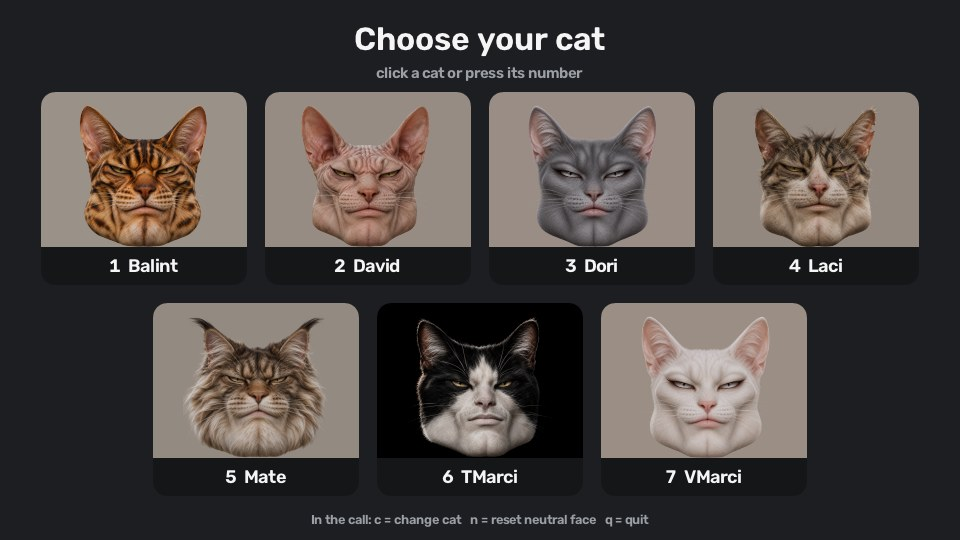
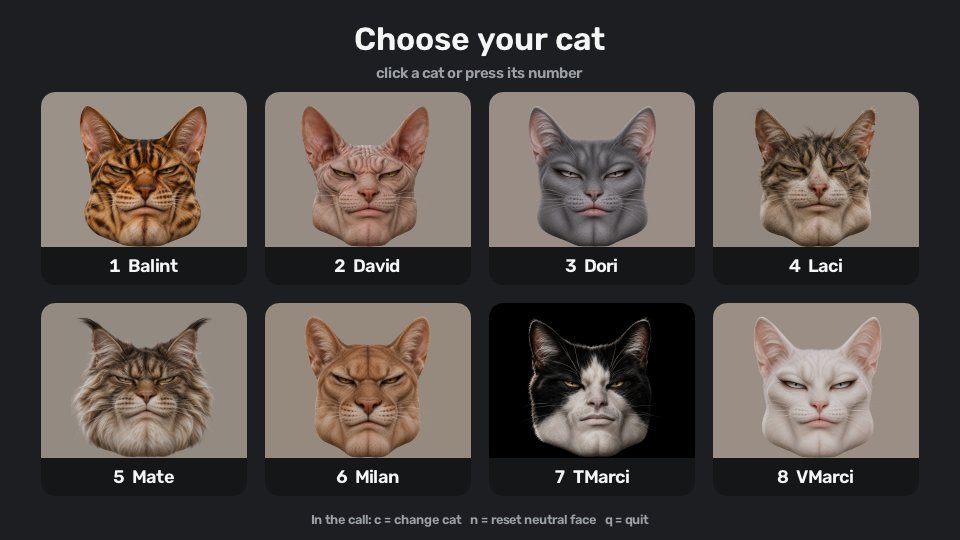
feat: add Milan, a ginger cat with his own paws
The blink test now measures against the eyes as snapped onto the photo:
Milan's landmarks squash his narrowed eyes into a slit, so his real lids
reach further above them than the raw landmarks suggest.

Claude-Session: https://claude.ai/code/session_01LqiRF41H9DnT4aZFsgEbwG

Changed region(s): [[0.0312, 0.563, 0.9688, 0.9185]]

diff --git a/tests/test_cat_face.py b/tests/test_cat_face.py
@@ -15,7 +15,9 @@ def test_blink_only_touches_the_eyes(real_cats):
         closed = face.render((1.0, 1.0))
         changed = np.argwhere((closed != cat.sprite).any(axis=2))
         assert len(changed), cat.name
-        eyes = cat.points[[i for pair in EYES for contour in pair for i in contour], :2]
+        # Measured on the eyes as snapped onto the photo: the raw landmarks can
+        # squash a narrowed eye into a slit (Milan).
+        eyes = np.vstack([contour for pair in face.eyes for contour in pair])
         height = np.ptp(eyes[:, 1])
         assert changed[:, 0].min() > eyes[:, 1].min() - 4 * height, cat.name
         assert changed[:, 0].max() < eyes[:, 1].max() + 2 * height, cat.name

diff --git a/tests/test_cats.py b/tests/test_cats.py
@@ -54,7 +54,8 @@ def test_load_rejects_missing_cutout(tmp_path):
 
 
 def test_shipped_cats(real_cats):
-    assert [c.name for c in real_cats] == ["Balint", "David", "Dori", "Laci", "Mate", "TMarci", "VMarci"]
+    names = ["Balint", "David", "Dori", "Laci", "Mate", "Milan", "TMarci", "VMarci"]
+    assert [c.name for c in real_cats] == names
     for cat in real_cats:
         assert cat.sprite.shape[2] == 4
         assert cat.points.shape == (478, 3)

diff --git a/README.md b/README.md
@@ -1,6 +1,6 @@
 # Cat Cam
 
-Be a cat in your Zoom calls. Pick one of seven cats; it turns, nods and tilts
+Be a cat in your Zoom calls. Pick one of eight cats; it turns, nods and tilts
 with your head, copies your whole face (brows, blinks, cheeks, smile, open
 mouth with fangs) and your hands become its paws: the top of the paw when
 you show the back of your hand, the soft toe beans when you show your palm. Its ears perk up when you raise
@@ -102,7 +102,7 @@ two paws again. Untick it for paws only.
 
 | Key        | What it does                                              |
 |------------|-----------------------------------------------------------|
-| `1` to `7` | switch cat, at any time                                   |
+| `1` to `8` | switch cat, at any time                                   |
 | `c`        | open the cat picker (the call keeps showing your cat)     |
 | `Esc`      | close the picker                                          |
 | `t`        | tail on/off (same as the Tail checkbox)                   |
